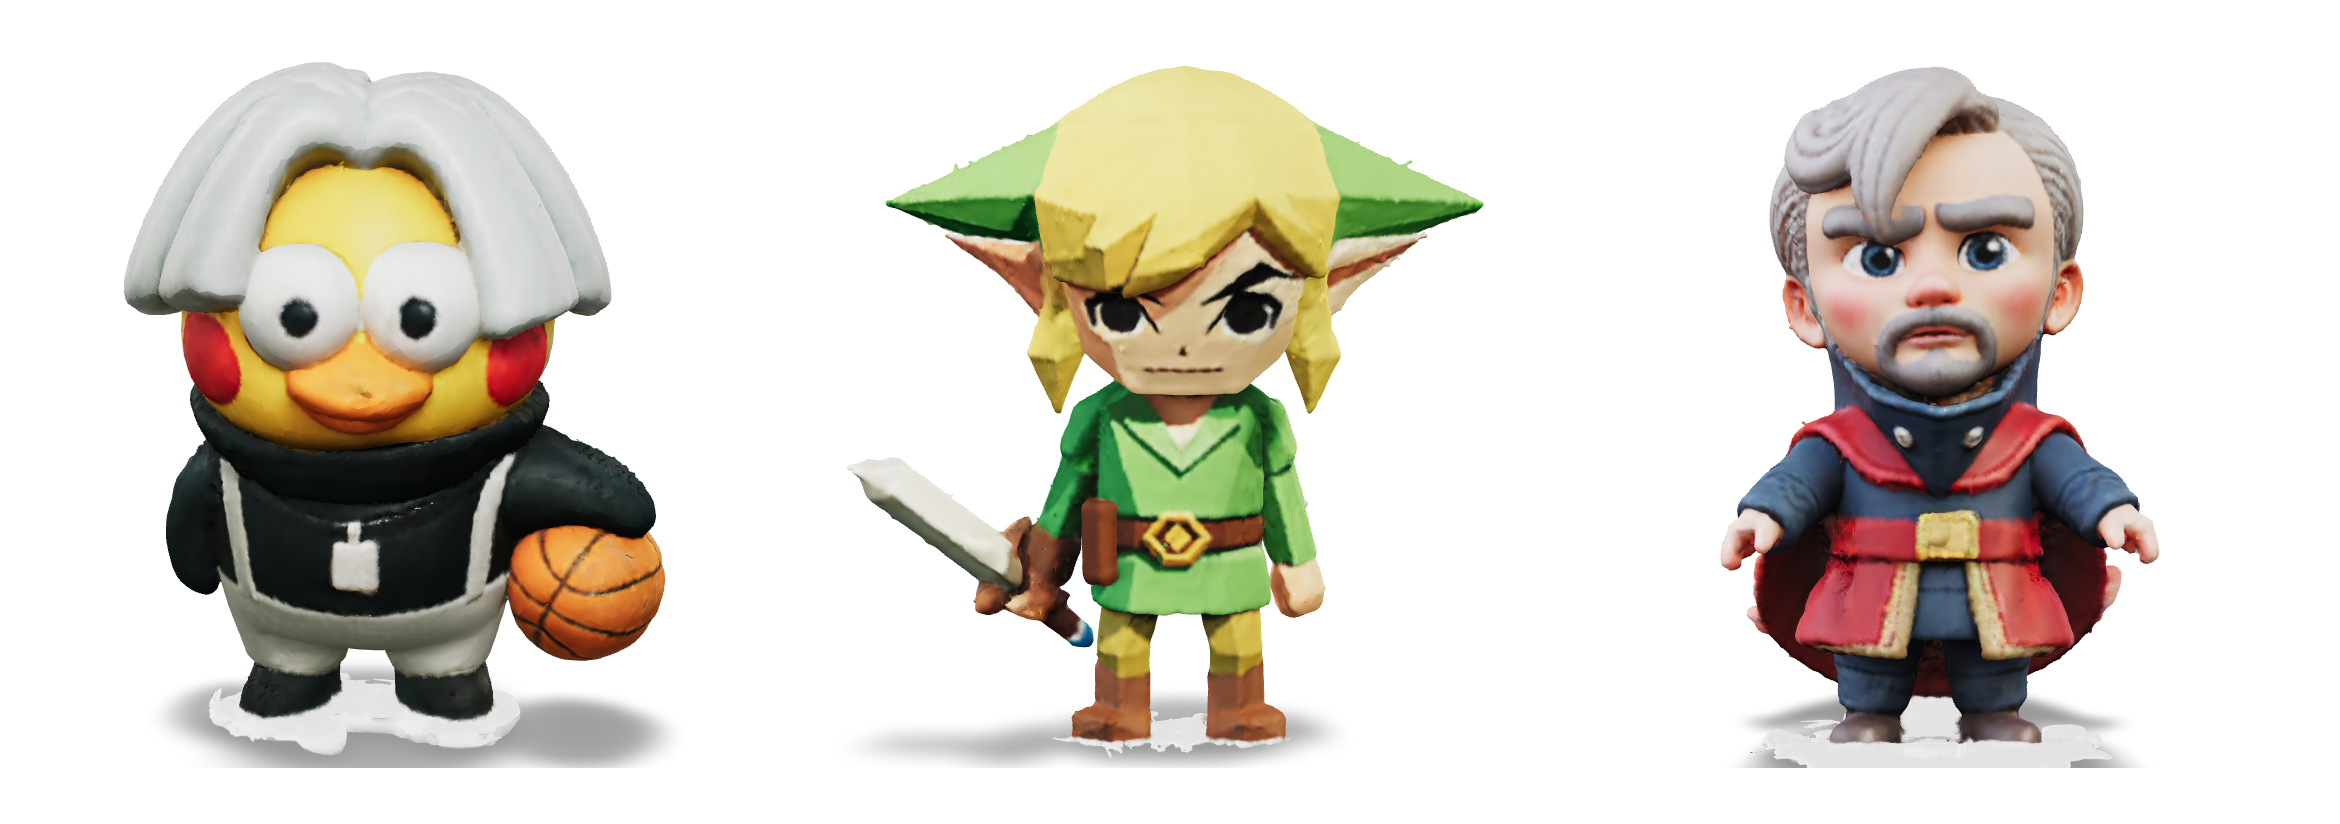
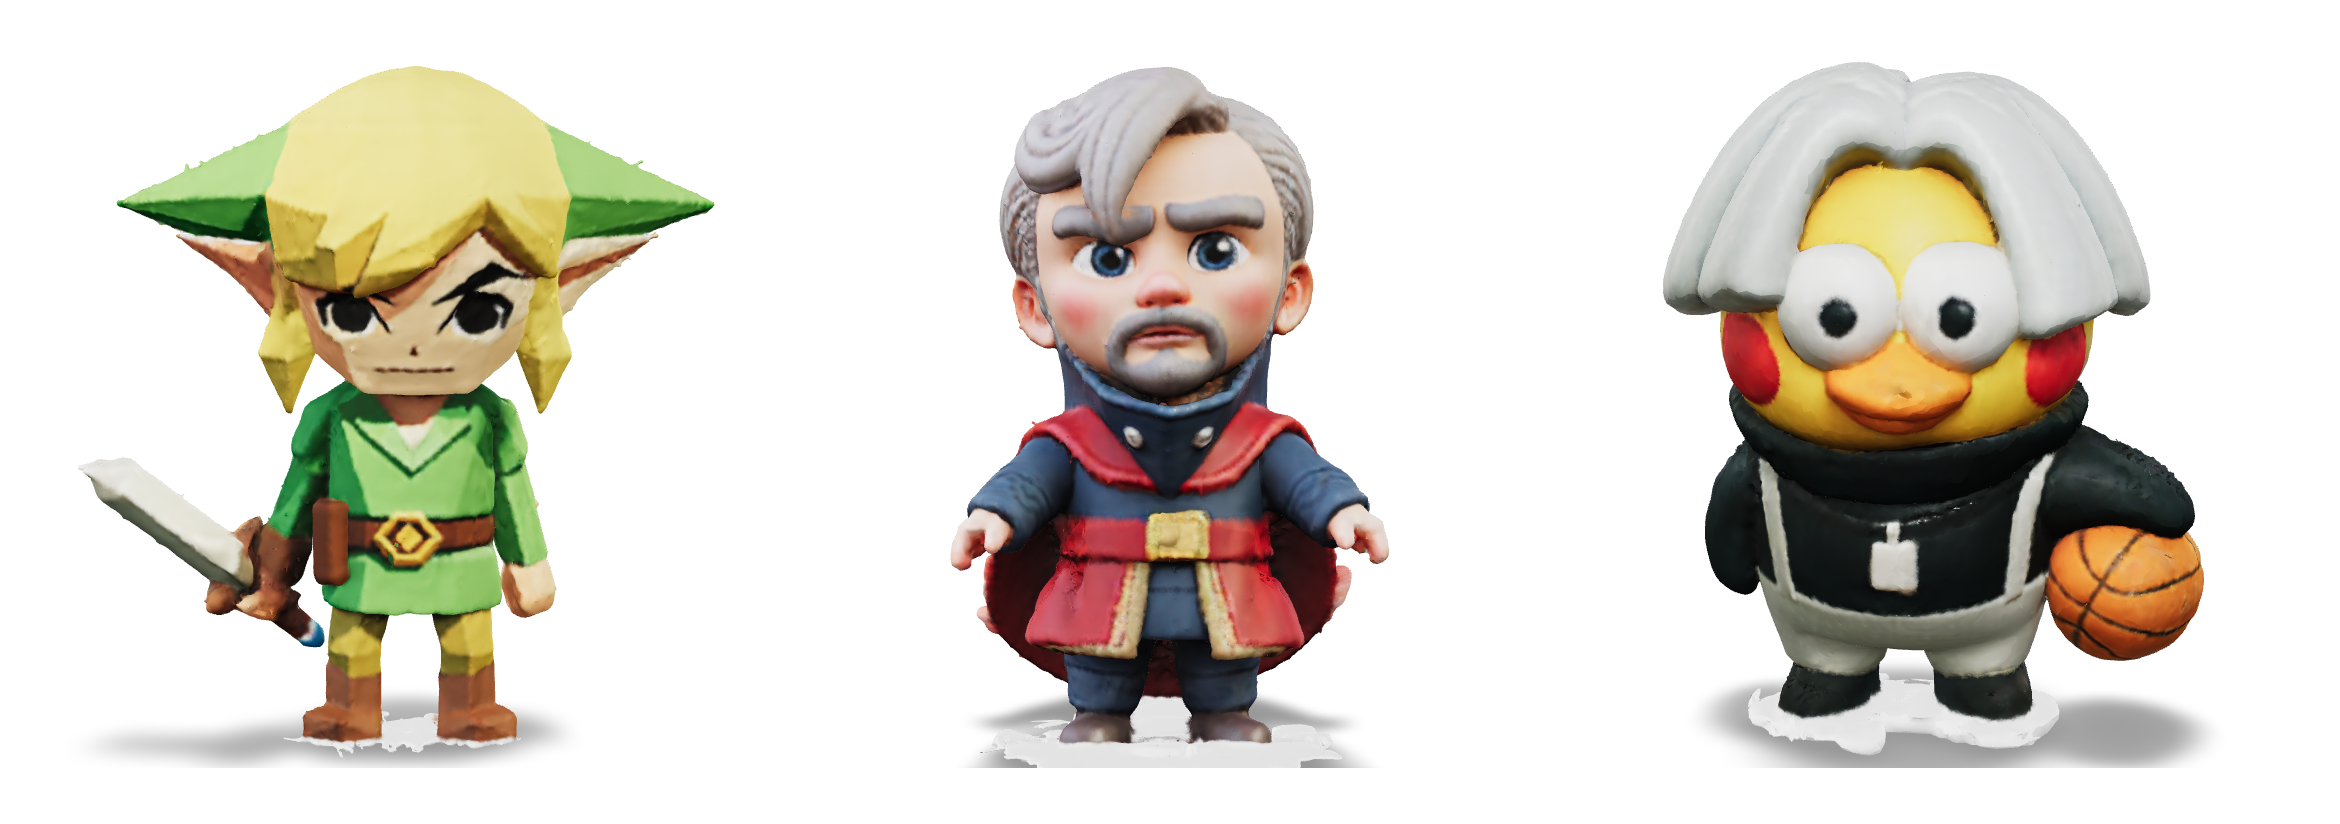
Link each featured mesh preview to its interactive viewer

diff --git a/README.md b/README.md
@@ -41,7 +41,13 @@
 This is an implementation of our work "Baking Gaussian Splatting into Diffusion Denoiser for Fast and Scalable Single-stage Image-to-3D Generation and Reconstruction
 ". The code and checkpoints here is a **re-implementation** and **re-training** and **differs** from the original version developed at Adobe. Our DiffusionGS is single-stage and does not rely on 2D multi-view diffusion model. DiffusionGS can be applied to single-view 3D object generation with mesh exportation and scene reconstruction without using depth estimator in ~6 seconds. If you find our repo useful, please give it a star ⭐ and consider citing our paper. Thank you :)
 
-![mesh](img/mesh.png)
+<p align="center">
+  <a href="https://caiyuanhao1998.github.io/project/DiffusionGS/viewer/mesh.html?asset=SD%2Fwarrier"><img src="img/meshes/link.png" width="32%" alt="Link exported mesh" title="Open interactive mesh viewer"></a>
+  <a href="https://caiyuanhao1998.github.io/project/DiffusionGS/viewer/mesh.html?asset=flux%2Fdoctor"><img src="img/meshes/doctor.png" width="32%" alt="Doctor exported mesh" title="Open interactive mesh viewer"></a>
+  <a href="https://caiyuanhao1998.github.io/project/DiffusionGS/viewer/mesh.html?asset=demo%2Fjige"><img src="img/meshes/jige.png" width="32%" alt="Jige exported mesh" title="Open interactive mesh viewer"></a>
+</p>
+
+Click each mesh to open its interactive viewer.
 
 
 ### News
